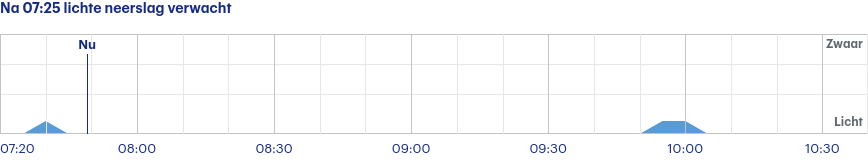
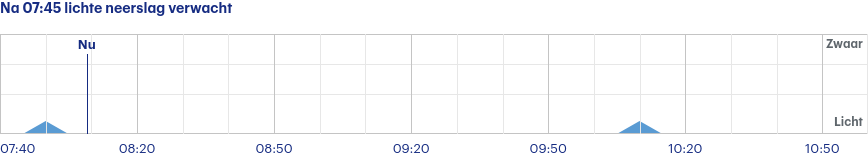
Latest scraping buienradar: Mon Jul 31 06:00:32 UTC 2023

diff --git a/scrapes/buienradar/buienradar-jette-3-uur.md b/scrapes/buienradar/buienradar-jette-3-uur.md
@@ -1,4 +1,4 @@
-Na 07:25 lichte neerslag verwacht
+Na 07:45 lichte neerslag verwacht
 
 ![](buienradar-jette-3-uur.png)
 
